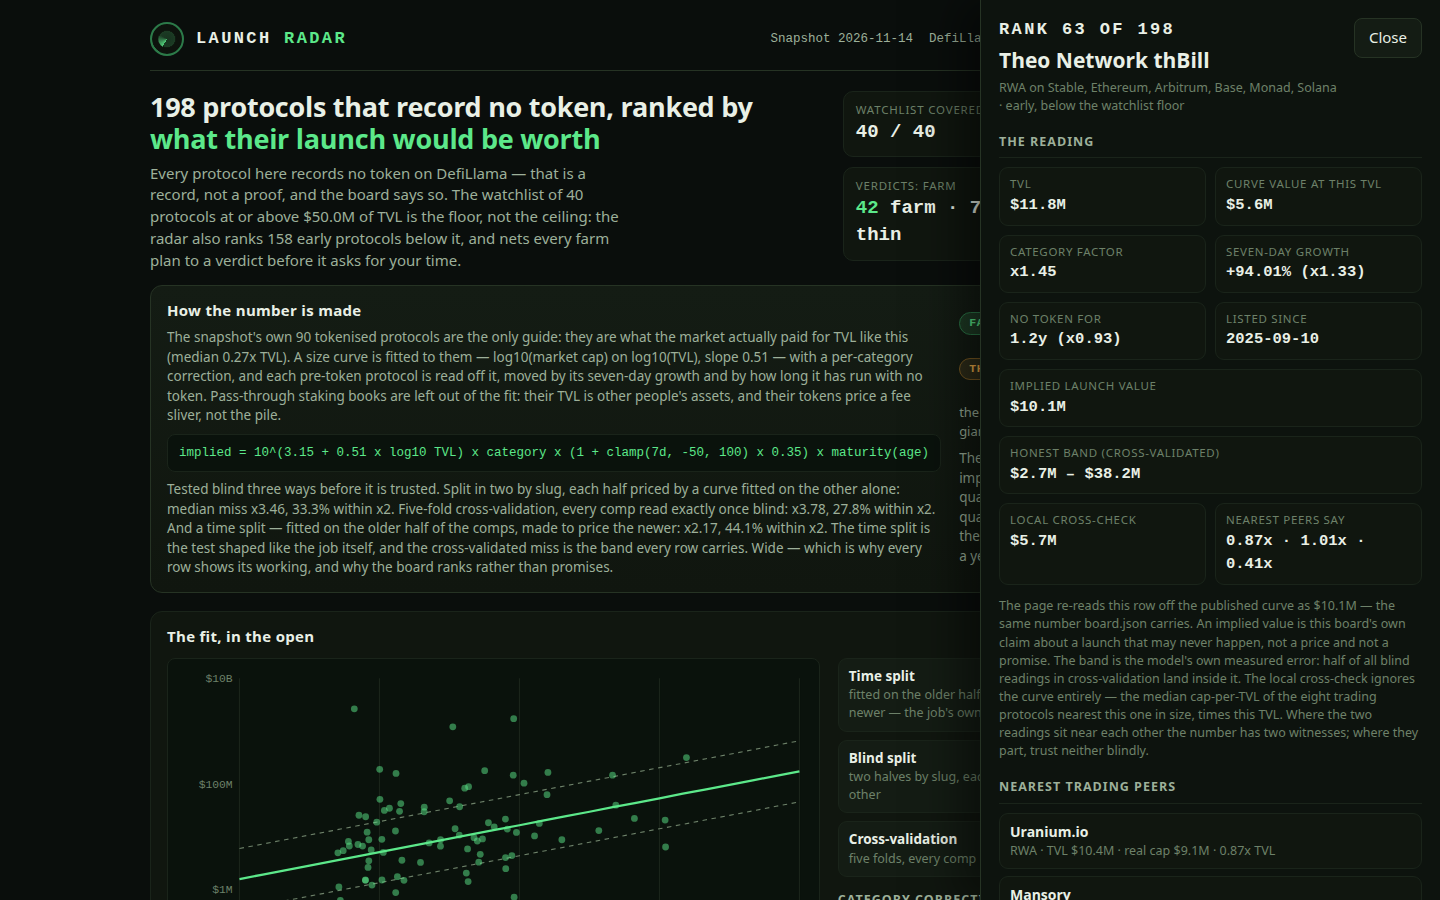
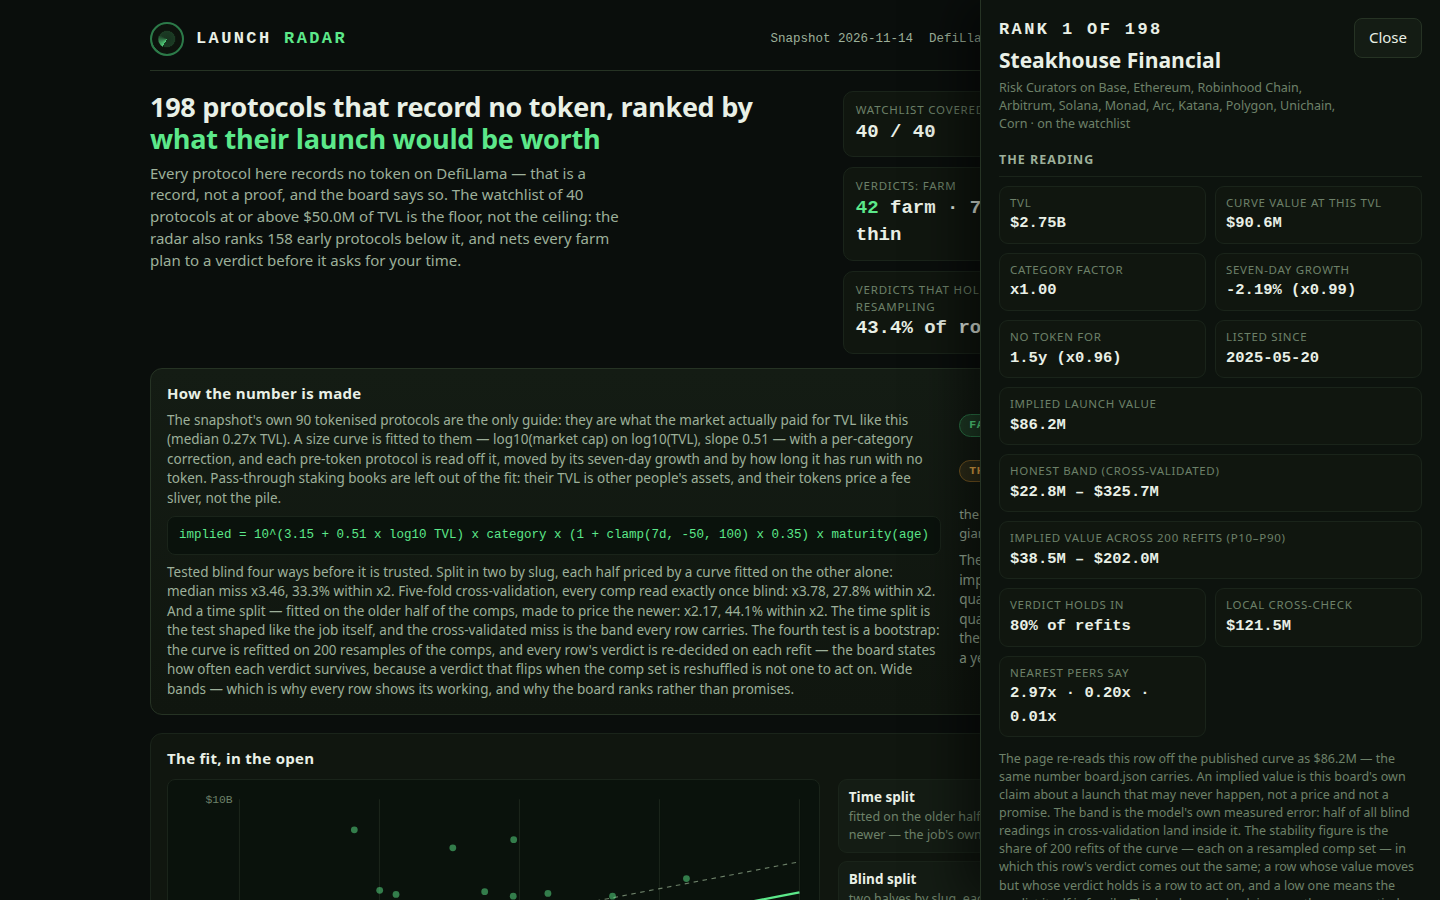
Launch Radar v3: bootstrap stability — 200 seeded refits, per-row verdict stability
Refit the size curve on 200 bootstrap resamples of the comp set (fixed
seed, so two runs write the same bytes) and re-decide every row's verdict
on each refit. The board now states the slope/intercept spread across
refits, each row's implied-value p10-p90 and the share of refits in which
its verdict holds (median 86.5%, 43.4% of rows hold in 90%+ of refits).
The dashboard shows the bootstrap test beside the blind, cross-validated
and time-split tests, a stability fact in the lede, and per-row stability
in the detail view. Values and verdicts are unchanged (42 farm / 70 thin /
86 skip); the fit itself was already at its measured optimum — OLS, robust,
age and quadratic variants were all tested and none beat x3.78 cross-
validated median miss — so the gain is a fourth, resampling validation the
leaders have and v2 lacked, stated in the verdict's own terms.

diff --git a/lib/model.ts b/lib/model.ts
@@ -4,11 +4,13 @@
 // a launch is worth: they are what the market actually paid for TVL like this. So the model first
 // fits a size curve to them — log10(market cap) against log10(TVL), least squares, with a per-
 // category correction — then reads every pre-token protocol's implied value off that curve, adjusted
-// for its seven-day TVL growth and for how long it has run with no token. The fit is tested three
-// ways, all blind: a two-fold split by slug, a five-fold cross-validation, and a time split that
-// fits on the older half of the comps and prices the newer — the test shaped like the job itself.
-// The cross-validated median miss becomes every row's stated band, and a second, local reading
-// (the nearest comps' own cap-per-TVL) is set beside the curve's as a cross-check, with the
+// for its seven-day TVL growth and for how long it has run with no token. The fit is tested four
+// ways, all blind: a two-fold split by slug, a five-fold cross-validation, a time split that
+// fits on the older half of the comps and prices the newer — the test shaped like the job itself —
+// and a bootstrap that refits the curve on resamples of the comps and re-decides every row's
+// verdict on each refit, so the board states how much of itself survives the comp set being
+// reshuffled. The cross-validated median miss becomes every row's stated band, and a second, local
+// reading (the nearest comps' own cap-per-TVL) is set beside the curve's as a cross-check, with the
 // nearest trading peers named. No protocol name is ever special-cased; one function scores every
 // row, and the page recomputes each row from the same figures so code and board agree.
 //
@@ -194,7 +196,7 @@ export const MODEL: ModelConstants = {
 };
 
 /** The model's version label: the dashboard names it and the board's rows carry it. */
-export const MODEL_VERSION = 'launch-radar-3';
+export const MODEL_VERSION = 'launch-radar-4';
 
 /**
  * Categories whose TVL is other people's assets in transit — staked or restaked for the
@@ -402,6 +404,114 @@ export function timeSplitTest(comps: SnapshotProtocol[], asOf: string, model: Mo
   if (fitOn.length < 10 || testOn.length === 0) return { tested: 0, median_multiple: 0, within_2x_pct: 0 };
   const curve = fitCurve(fitOn, model);
   return summariseMisses(testOn.map((p) => missOf(curve, p)));
+}
+
+/** The bootstrap's verdict: how much of the fitted curve — and of the board's verdicts — survives resampling the comps. */
+export interface BootstrapTest {
+  draws: number;
+  /** The fitted slope across the refits: 5th, 50th and 95th percentiles. */
+  slope_p5: number;
+  slope_p50: number;
+  slope_p95: number;
+  /** The fitted intercept across the refits: 5th, 50th and 95th percentiles. */
+  intercept_p5: number;
+  intercept_p50: number;
+  intercept_p95: number;
+  /** The median row's verdict stability across the board, in per cent. */
+  median_stability_pct: number;
+  /** The share of rows whose verdict holds in at least 90% of the refits, in per cent. */
+  rows_stable_pct: number;
+}
+
+/** A deterministic generator (mulberry32) so two runs write the same bytes: a resampling test that moved between runs would be noise, not evidence. */
+function mulberry32(seed: number): () => number {
+  let a = seed >>> 0;
+  return () => {
+    a |= 0;
+    a = (a + 0x6d2b79f5) | 0;
+    let t = Math.imul(a ^ (a >>> 15), 1 | a);
+    t = (t + Math.imul(t ^ (t >>> 7), 61 | t)) ^ t;
+    return ((t ^ (t >>> 14)) >>> 0) / 4294967296;
+  };
+}
+
+/** The `q` quantile of a sorted list, clamped to its ends. */
+function quantile(sorted: number[], q: number): number {
+  if (sorted.length === 0) return 0;
+  return sorted[Math.min(sorted.length - 1, Math.max(0, Math.floor(q * sorted.length)))]!;
+}
+
+/**
+ * The bootstrap: refit the size curve on `draws` resamples of the comps, each drawn with
+ * replacement from the same comp set, and return every refitted curve with the spread of the
+ * slope and intercept. The other three tests ask how far blind readings land from the truth;
+ * this one asks a different question — how much of the curve itself is the comp set, and how
+ * much would move if the set were reshuffled. A slope that wanders widely across refits is a
+ * curve the board should not lean on, and the per-row stability below says the same thing row
+ * by row, in the verdict's own terms. The seed is fixed, so the resamples — and the board —
+ * are identical on every run.
+ */
+export function bootstrapSpread(comps: SnapshotProtocol[], model: ModelConstants = MODEL, draws = 200): {
+  draws: number;
+  curves: SizeCurve[];
+  slope_p5: number;
+  slope_p50: number;
+  slope_p95: number;
+  intercept_p5: number;
+  intercept_p50: number;
+  intercept_p95: number;
+} {
+  const rng = mulberry32(0xc0ffee);
+  const curves: SizeCurve[] = [];
+  for (let d = 0; d < draws; d++) {
+    const sample: SnapshotProtocol[] = [];
+    for (let i = 0; i < comps.length; i++) sample.push(comps[Math.floor(rng() * comps.length)]!);
+    curves.push(fitCurve(sample, model));
+  }
+  const slopes = curves.map((c) => c.slope).sort((a, b) => a - b);
+  const intercepts = curves.map((c) => c.intercept).sort((a, b) => a - b);
+  return {
+    draws,
+    curves,
+    slope_p5: round4(quantile(slopes, 0.05)),
+    slope_p50: round4(quantile(slopes, 0.5)),
+    slope_p95: round4(quantile(slopes, 0.95)),
+    intercept_p5: round4(quantile(intercepts, 0.05)),
+    intercept_p50: round4(quantile(intercepts, 0.5)),
+    intercept_p95: round4(quantile(intercepts, 0.95)),
+  };
+}
+
+/**
+ * One row's stability across the refitted curves: its implied value on each refit, and how often
+ * the verdict that value gives is the verdict the board reports. A row whose value moves but
+ * whose verdict holds is a row the farmer can act on; a row whose verdict flips when the comp
+ * set is reshuffled is a row the board flags, not one it hides.
+ */
+export function rowStability(
+  p: SnapshotProtocol,
+  asOf: string,
+  reading: Reading,
+  econ: FarmEconomics,
+  drawCurves: SizeCurve[],
+  model: ModelConstants = MODEL,
+): { stability_pct: number; implied_p10_usd: number; implied_p90_usd: number } {
+  if (drawCurves.length === 0) {
+    return { stability_pct: 100, implied_p10_usd: reading.implied, implied_p90_usd: reading.implied };
+  }
+  const implieds: number[] = [];
+  let stable = 0;
+  for (const curve of drawCurves) {
+    const r = impliedValue(p, asOf, curve, model);
+    implieds.push(r.implied);
+    if (farmEconomics(p, r.implied, r.age, model).verdict === econ.verdict) stable++;
+  }
+  implieds.sort((a, b) => a - b);
+  return {
+    stability_pct: Math.round((stable / drawCurves.length) * 1000) / 10,
+    implied_p10_usd: implieds[Math.floor(0.1 * implieds.length)]!,
+    implied_p90_usd: implieds[Math.floor(0.9 * implieds.length)]!,
+  };
 }
 
 /** A trading peer the detail view sets beside a reading: the market's own figures, not a model's. */
@@ -673,6 +783,11 @@ export interface BoardRow {
   local_value_usd: number;
   /** The nearest trading peers, the exhibits the detail view sets beside the reading. */
   peers: PeerComp[];
+  /** The share of bootstrap refits in which this row's verdict comes out the same, in per cent. */
+  stability_pct: number;
+  /** The row's implied value across the bootstrap refits: 10th and 90th percentiles. */
+  implied_p10_usd: number;
+  implied_p90_usd: number;
   model: {
     curve_value_usd: number;
     category_factor: number;
@@ -713,6 +828,11 @@ export interface RadarRow {
   breakeven_value_usd: number;
   cautious_net_usd: number;
   peers: PeerComp[];
+  /** The share of bootstrap refits in which this row's verdict comes out the same, in per cent. */
+  stability_pct: number;
+  /** The row's implied value across the bootstrap refits: 10th and 90th percentiles. */
+  implied_p10_usd: number;
+  implied_p90_usd: number;
   steps: string[];
 }
 
@@ -739,8 +859,8 @@ export interface RadarData {
   model: ModelConstants;
   model_version: string;
   curve: SizeCurve;
-  /** The validation suite: the same curve machinery, tested blind three ways. */
-  validation: { blind: BlindTest; cross: BlindTest; time: BlindTest };
+  /** The validation suite: the same curve machinery, tested blind four ways. */
+  validation: { blind: BlindTest; cross: BlindTest; time: BlindTest; bootstrap: BootstrapTest };
   /** The comps themselves, compact, for the model panel's chart of the fit. */
   comps: { slug: string; name: string; category: string | null; tvl_usd: number; mcap_usd: number }[];
   watchlist_size: number;
@@ -757,7 +877,7 @@ export interface RadarData {
  * the fitted curve and ranked by implied value. Ranks are 1..N and values never rise as rank
  * ascends; equal values are ordered by TVL, then slug, so two runs write the same bytes.
  */
-export function buildBoard(snapshot: Snapshot, curve: SizeCurve, comps: SnapshotProtocol[], bandMultiple: number, model: ModelConstants = MODEL): BoardRow[] {
+export function buildBoard(snapshot: Snapshot, curve: SizeCurve, comps: SnapshotProtocol[], bandMultiple: number, model: ModelConstants = MODEL, drawCurves: SizeCurve[] = []): BoardRow[] {
   const watch = new Set(snapshot.watchlist);
   const chosen = snapshot.protocols.filter((p) => watch.has(p.slug) || isRankable(p));
   const scored = chosen.map((p) => {
@@ -789,6 +909,7 @@ export function buildBoard(snapshot: Snapshot, curve: SizeCurve, comps: Snapshot
     band_high_usd: Math.round(s.reading.implied * bandMultiple),
     local_value_usd: localValue(s.p, comps),
     peers: nearestComps(s.p, comps),
+    ...rowStability(s.p, snapshot.as_of, s.reading, s.econ, drawCurves, model),
     model: {
       curve_value_usd: s.reading.curve_value,
       category_factor: s.reading.category_factor,
@@ -849,23 +970,41 @@ export function radarRow(row: BoardRow): RadarRow {
     breakeven_value_usd: row.farm.breakeven_value_usd,
     cautious_net_usd: row.farm.cautious_net_usd,
     peers: row.peers,
+    stability_pct: row.stability_pct,
+    implied_p10_usd: row.implied_p10_usd,
+    implied_p90_usd: row.implied_p90_usd,
     steps: row.farm_steps,
   };
 }
 
-/** Everything the dashboard renders, from the snapshot: fit the curve, test it three ways, build the board. */
+/** Everything the dashboard renders, from the snapshot: fit the curve, test it four ways, build the board. */
 export function buildRadar(snapshot: Snapshot, model: ModelConstants = MODEL): { board: BoardRow[]; radar: RadarData } {
   const comps = snapshot.protocols.filter(isComp);
   const curve = fitCurve(comps, model);
   const blind = blindTest(comps, model);
   const cross = crossValidate(comps, model);
   const time = timeSplitTest(comps, snapshot.as_of, model);
+  const boot = bootstrapSpread(comps, model);
   const bandMultiple = cross.median_multiple > 0 ? cross.median_multiple : blind.median_multiple;
-  const board = buildBoard(snapshot, curve, comps, bandMultiple, model);
+  const board = buildBoard(snapshot, curve, comps, bandMultiple, model, boot.curves);
   const live = liveRows(snapshot);
   const watch = new Set(snapshot.watchlist);
   const counts = { farm: 0, thin: 0, skip: 0 };
   for (const r of board) counts[r.farm.verdict]++;
+  const stabilities = board.map((r) => r.stability_pct).sort((a, b) => a - b);
+  const medianStability = stabilities.length > 0 ? stabilities[Math.floor(stabilities.length / 2)]! : 0;
+  const rowsStable = board.filter((r) => r.stability_pct >= 90).length;
+  const bootstrap: BootstrapTest = {
+    draws: boot.draws,
+    slope_p5: boot.slope_p5,
+    slope_p50: boot.slope_p50,
+    slope_p95: boot.slope_p95,
+    intercept_p5: boot.intercept_p5,
+    intercept_p50: boot.intercept_p50,
+    intercept_p95: boot.intercept_p95,
+    median_stability_pct: medianStability,
+    rows_stable_pct: board.length > 0 ? Math.round((rowsStable / board.length) * 1000) / 10 : 0,
+  };
   const radar: RadarData = {
     as_of: snapshot.as_of,
     source: snapshot.source,
@@ -873,7 +1012,7 @@ export function buildRadar(snapshot: Snapshot, model: ModelConstants = MODEL): {
     model,
     model_version: MODEL_VERSION,
     curve,
-    validation: { blind, cross, time },
+    validation: { blind, cross, time, bootstrap },
     comps: comps.map((p) => ({ slug: p.slug, name: p.name, category: p.category, tvl_usd: p.tvl_usd, mcap_usd: p.mcap_usd! })),
     watchlist_size: snapshot.watchlist.length,
     board_size: board.length,
@@ -911,6 +1050,9 @@ export function boardIssue(board: BoardRow[], snapshot: Snapshot): string | null
     }
     if (!Number.isSafeInteger(r.implied_value_usd) || r.implied_value_usd <= 0 || r.implied_value_usd > 100_000_000_000_000) {
       return `${r.slug} has implied value ${r.implied_value_usd}`;
+    }
+    if (!(r.stability_pct >= 0 && r.stability_pct <= 100) || r.implied_p10_usd <= 0 || r.implied_p90_usd < r.implied_p10_usd) {
+      return `${r.slug} has a broken bootstrap stability reading`;
     }
   }
   return null;

diff --git a/dashboard/app.js b/dashboard/app.js
@@ -147,7 +147,8 @@
         el('div', { class: 'fact' }, el('span', { text: 'Watchlist covered' }), el('b', null, DATA.watchlist_size + ' / ' + DATA.watchlist_size)),
         el('div', { class: 'fact' }, el('span', { text: 'Rows ranked' }), el('b', { text: String(DATA.board_size) })),
         el('div', { class: 'fact' }, el('span', { text: 'Verdicts: farm' }), el('b', null, el('i', { text: String(c.farm) }), ' farm · ' + c.thin + ' thin')),
-        el('div', { class: 'fact' }, el('span', { text: 'Time-split test, median miss' }), el('b', { text: 'x' + DATA.validation.time.median_multiple.toFixed(2) }))
+        el('div', { class: 'fact' }, el('span', { text: 'Time-split test, median miss' }), el('b', { text: 'x' + DATA.validation.time.median_multiple.toFixed(2) })),
+        el('div', { class: 'fact' }, el('span', { text: 'Verdicts that hold under resampling' }), el('b', { text: DATA.validation.bootstrap.rows_stable_pct + '% of rows' }))
       )
     );
   }
@@ -160,7 +161,7 @@
         el('h2', { text: 'How the number is made' }),
         el('p', { text: 'The snapshot\'s own ' + curve.comps + ' tokenised protocols are the only guide: they are what the market actually paid for TVL like this (median ' + curve.median_ratio.toFixed(2) + 'x TVL). A size curve is fitted to them — log10(market cap) on log10(TVL), slope ' + curve.slope.toFixed(2) + ' — with a per-category correction, and each pre-token protocol is read off it, moved by its seven-day growth and by how long it has run with no token. Pass-through staking books are left out of the fit: their TVL is other people\'s assets, and their tokens price a fee sliver, not the pile.' }),
         el('div', { class: 'formula', text: 'implied = 10^(' + curve.intercept.toFixed(2) + ' + ' + curve.slope.toFixed(2) + ' x log10 TVL) x category x (1 + clamp(7d, ' + m.growth_floor + ', ' + m.growth_cap + ') x ' + m.growth_weight + ') x maturity(age)' }),
-        el('p', { text: 'Tested blind three ways before it is trusted. Split in two by slug, each half priced by a curve fitted on the other alone: median miss x' + DATA.validation.blind.median_multiple.toFixed(2) + ', ' + DATA.validation.blind.within_2x_pct + '% within x2. Five-fold cross-validation, every comp read exactly once blind: x' + DATA.validation.cross.median_multiple.toFixed(2) + ', ' + DATA.validation.cross.within_2x_pct + '% within x2. And a time split — fitted on the older half of the comps, made to price the newer: x' + DATA.validation.time.median_multiple.toFixed(2) + ', ' + DATA.validation.time.within_2x_pct + '% within x2. The time split is the test shaped like the job itself, and the cross-validated miss is the band every row carries. Wide — which is why every row shows its working, and why the board ranks rather than promises.' })
+        el('p', { text: 'Tested blind four ways before it is trusted. Split in two by slug, each half priced by a curve fitted on the other alone: median miss x' + DATA.validation.blind.median_multiple.toFixed(2) + ', ' + DATA.validation.blind.within_2x_pct + '% within x2. Five-fold cross-validation, every comp read exactly once blind: x' + DATA.validation.cross.median_multiple.toFixed(2) + ', ' + DATA.validation.cross.within_2x_pct + '% within x2. And a time split — fitted on the older half of the comps, made to price the newer: x' + DATA.validation.time.median_multiple.toFixed(2) + ', ' + DATA.validation.time.within_2x_pct + '% within x2. The time split is the test shaped like the job itself, and the cross-validated miss is the band every row carries. The fourth test is a bootstrap: the curve is refitted on ' + DATA.validation.bootstrap.draws + ' resamples of the comps, and every row\'s verdict is re-decided on each refit — the board states how often each verdict survives, because a verdict that flips when the comp set is reshuffled is not one to act on. Wide bands — which is why every row shows its working, and why the board ranks rather than promises.' })
       ),
       el('div', { class: 'legend' },
         el('div', null, el('span', { class: 'chip farm', text: 'FARM' }), el('span', { text: 'the modelled slice clears the plan\'s all-in cost by $20 or more' })),
@@ -239,7 +240,11 @@
           el('div', { class: 'tests' },
             testRow('Time split', v.time, 'fitted on the older half, priced on the newer — the job\'s own shape'),
             testRow('Blind split', v.blind, 'two halves by slug, each priced by the other'),
-            testRow('Cross-validation', v.cross, 'five folds, every comp read once blind')
+            testRow('Cross-validation', v.cross, 'five folds, every comp read once blind'),
+            el('div', { class: 'test' },
+              el('div', null, el('b', { text: 'Bootstrap stability' }), el('span', { class: 'sub', text: 'curve refitted on ' + v.bootstrap.draws + ' resamples of the comps; every verdict re-decided on each' })),
+              el('span', { class: 'num', text: 'slope ' + v.bootstrap.slope_p5.toFixed(2) + '–' + v.bootstrap.slope_p95.toFixed(2) + ' · ' + v.bootstrap.median_stability_pct + '% hold' })
+            )
           ),
           el('h3', { class: 'fit-h', text: 'Category corrections' }),
           el('table', { class: 'factors' },
@@ -420,10 +425,12 @@
         el('div', null, el('span', { text: 'Listed since' }), el('b', { text: row.listed_at || 'unrecorded' })),
         el('div', { class: 'wide' }, el('span', { text: 'Implied launch value' }), el('b', { text: fmtUsd(row.implied_value_usd) })),
         el('div', { class: 'wide' }, el('span', { text: 'Honest band (cross-validated)' }), el('b', { text: fmtUsd(row.band_low_usd) + ' – ' + fmtUsd(row.band_high_usd) })),
+        el('div', { class: 'wide' }, el('span', { text: 'Implied value across ' + DATA.validation.bootstrap.draws + ' refits (p10–p90)' }), el('b', { text: fmtUsd(row.implied_p10_usd) + ' – ' + fmtUsd(row.implied_p90_usd) })),
+        el('div', null, el('span', { text: 'Verdict holds in' }), el('b', { text: row.stability_pct + '% of refits' })),
         el('div', null, el('span', { text: 'Local cross-check' }), el('b', { text: fmtUsd(row.local_value_usd) })),
         el('div', null, el('span', { text: 'Nearest peers say' }), el('b', { text: row.peers.length ? row.peers.map(function (p) { return p.ratio.toFixed(2) + 'x'; }).join(' · ') : '—' }))
       ),
-      el('p', { class: 'sub', text: 'The page re-reads this row off the published curve as ' + fmtUsd(recomputed) + (recomputed === row.implied_value_usd ? ' — the same number board.json carries.' : ' — which differs from the board: the data would be stale.') + ' An implied value is this board\'s own claim about a launch that may never happen, not a price and not a promise. The band is the model\'s own measured error: half of all blind readings in cross-validation land inside it. The local cross-check ignores the curve entirely — the median cap-per-TVL of the eight trading protocols nearest this one in size, times this TVL. Where the two readings sit near each other the number has two witnesses; where they part, trust neither blindly.' })
+      el('p', { class: 'sub', text: 'The page re-reads this row off the published curve as ' + fmtUsd(recomputed) + (recomputed === row.implied_value_usd ? ' — the same number board.json carries.' : ' — which differs from the board: the data would be stale.') + ' An implied value is this board\'s own claim about a launch that may never happen, not a price and not a promise. The band is the model\'s own measured error: half of all blind readings in cross-validation land inside it. The stability figure is the share of ' + DATA.validation.bootstrap.draws + ' refits of the curve — each on a resampled comp set — in which this row\'s verdict comes out the same; a row whose value moves but whose verdict holds is a row to act on, and a low one means the verdict itself is fragile. The local cross-check ignores the curve entirely — the median cap-per-TVL of the eight trading protocols nearest this one in size, times this TVL. Where the two readings sit near each other the number has two witnesses; where they part, trust neither blindly.' })
     ));
     panel.appendChild(el('section', { class: 'detail-section' },
       el('h3', { text: 'Nearest trading peers' }),

diff --git a/main.ts b/main.ts
@@ -3,11 +3,12 @@
 //
 // The program reads the sealed snapshot from /input/snapshot.json (or --input <file|dir>), fits
 // the comps size curve in lib/model.ts to the snapshot's own tokenised protocols, tests the fit
-// three ways (a two-fold blind split, five-fold cross-validation, and a time split that fits on
-// the older half of the comps and prices the newer), reads every pre-token protocol's implied
-// value off the curve with an honest band and a local cross-check beside it, and writes the
-// ranked board to /output/board.json. It then writes the dashboard's data to /output/data.js,
-// copies this repository's dashboard/ and screenshots/ to /output, and writes
+// four ways (a two-fold blind split, five-fold cross-validation, a time split that fits on the
+// older half of the comps and prices the newer, and a bootstrap that refits the curve on 200
+// resamples of the comps and re-decides every row's verdict on each refit), reads every pre-token
+// protocol's implied value off the curve with an honest band and a local cross-check beside it,
+// and writes the ranked board to /output/board.json. It then writes the dashboard's data to
+// /output/data.js, copies this repository's dashboard/ and screenshots/ to /output, and writes
 // /output/dossier.json, the summary the judge reads, with the vendored make.fun library.
 //
 // The dashboard is a static page, no framework and no network: dashboard/index.html,
@@ -91,9 +92,11 @@ for (const name of shots) {
 writeFileSync(join(out, 'dossier.json'), buildDossier(out, { text_max_bytes: TEXT_MAX_BYTES, screenshots: SCREENSHOT_CAPS, dashboard: { max_files: 400, max_bytes: 4_194_304 } }));
 
 const counts = radar.verdict_counts;
+const boot = radar.validation.bootstrap;
 process.stdout.write(
   `launch radar: ${snapshot.protocols.length} protocols, ${snapshot.watchlist.length} on the watchlist, ${board.length} rows ranked (${radar.early_size} early, ${radar.live_size} live set aside)\n` +
     `launch radar: curve fitted on ${radar.curve.comps} tokenised protocols (slope ${radar.curve.slope}, median cap/TVL ${radar.curve.median_ratio}); blind test on ${radar.validation.blind.tested}: median miss x${radar.validation.blind.median_multiple}, ${radar.validation.blind.within_2x_pct}% within x2\n` +
     `launch radar: cross-validation on ${radar.validation.cross.tested}: median miss x${radar.validation.cross.median_multiple}, ${radar.validation.cross.within_2x_pct}% within x2; time-split on ${radar.validation.time.tested}: median miss x${radar.validation.time.median_multiple}, ${radar.validation.time.within_2x_pct}% within x2\n` +
+    `launch radar: bootstrap on ${boot.draws} refits: slope ${boot.slope_p5}–${boot.slope_p95} (median ${boot.slope_p50}), intercept ${boot.intercept_p5}–${boot.intercept_p95}; median verdict stability ${boot.median_stability_pct}%, ${boot.rows_stable_pct}% of rows hold their verdict in 90%+ of refits\n` +
     `launch radar: verdicts ${counts.farm} farm, ${counts.thin} thin, ${counts.skip} skip; wrote board.json, data.js, dashboard (${dashFiles.length} files), screenshots (${shots.length} images) and dossier.json to ${out}\n`,
 );
